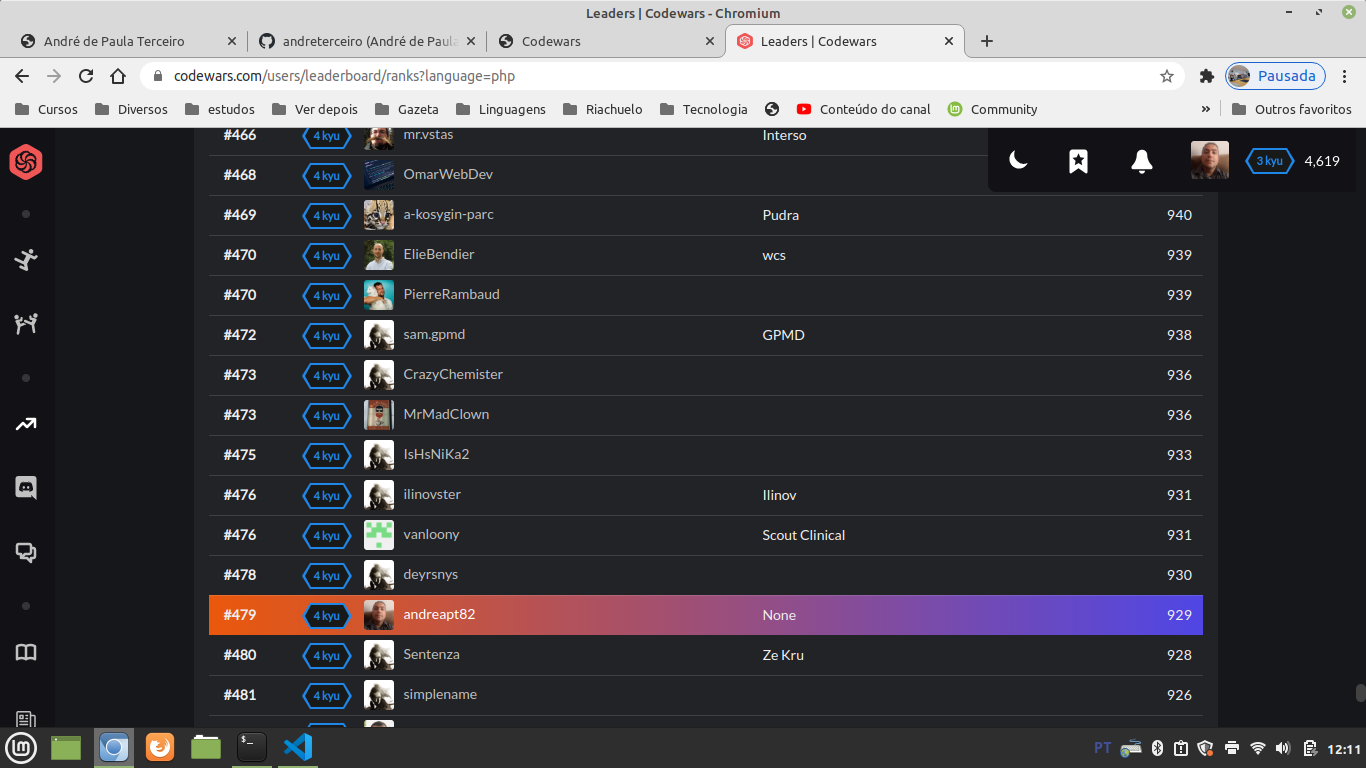
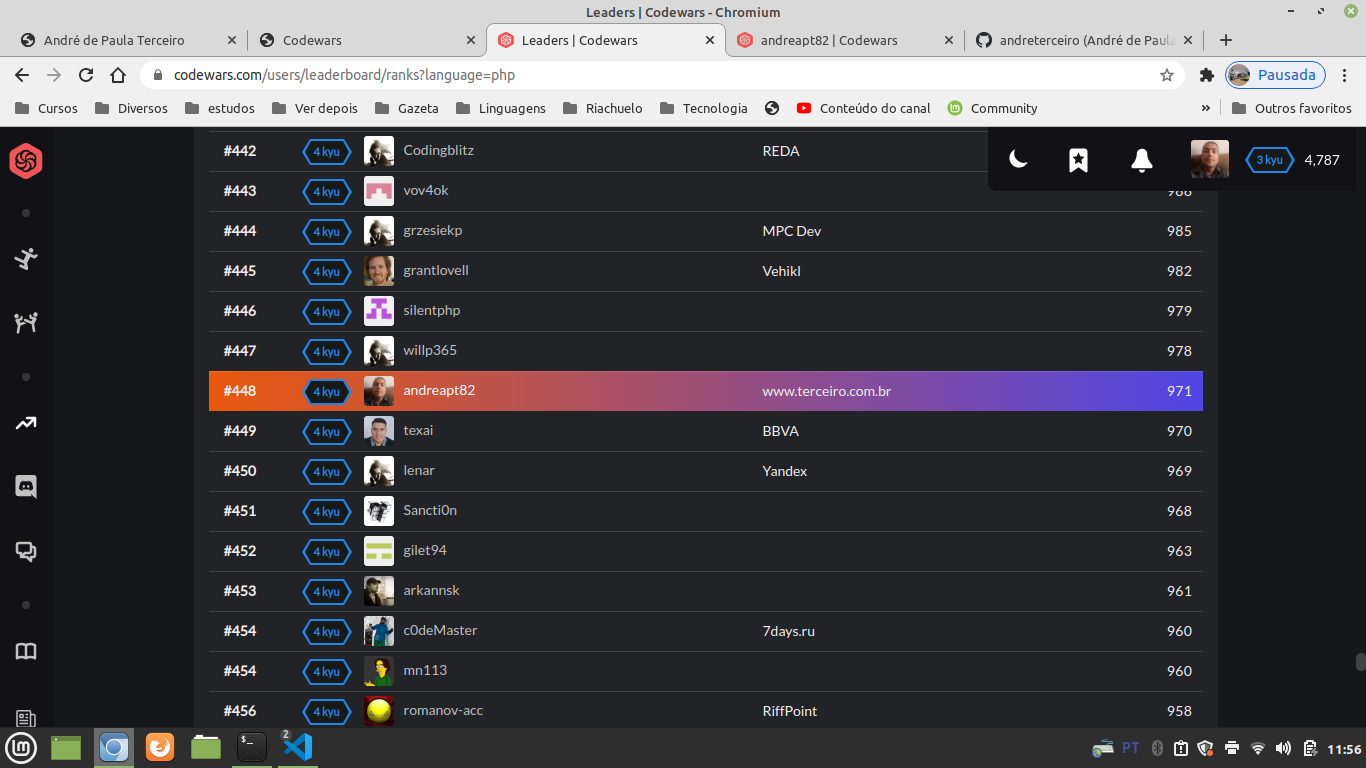
Updating the images about my position in the ranking of PHp and Ruby and Codewars

diff --git a/codewars/index.html b/codewars/index.html
@@ -24,7 +24,7 @@
         <img src="/codewars/ranking-julia.png" /> 
     </div>
     <div>
-        <b>OBS:</b> estes <i>prinstscreens</i> foram tirados em 09/08/2024.
+        <b>OBS:</b> estes <i>prinstscreens</i> foram tirados em 18/08/2024.
     </div>
     <div>
         A maioria dos meus pontos vieram da solução de desafios (katas). Outra forma de se ganhar pontos é criar desafios (tenho poucos desafios criados) ou portar ("traduzir") desafios de uma linguagem de programação para outra.
